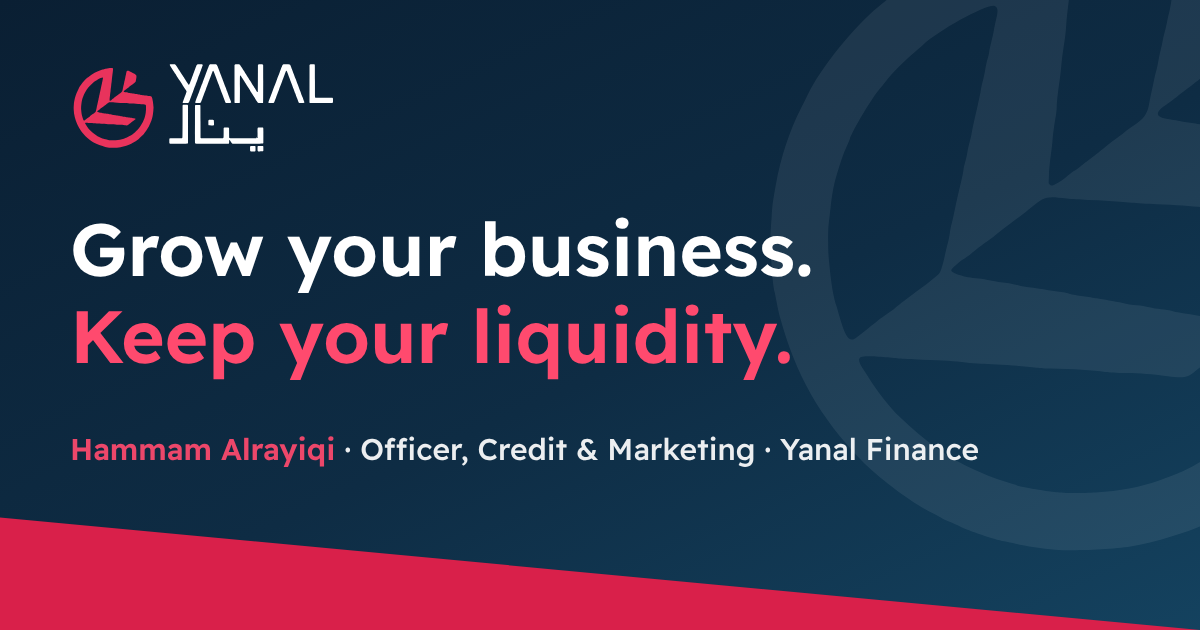
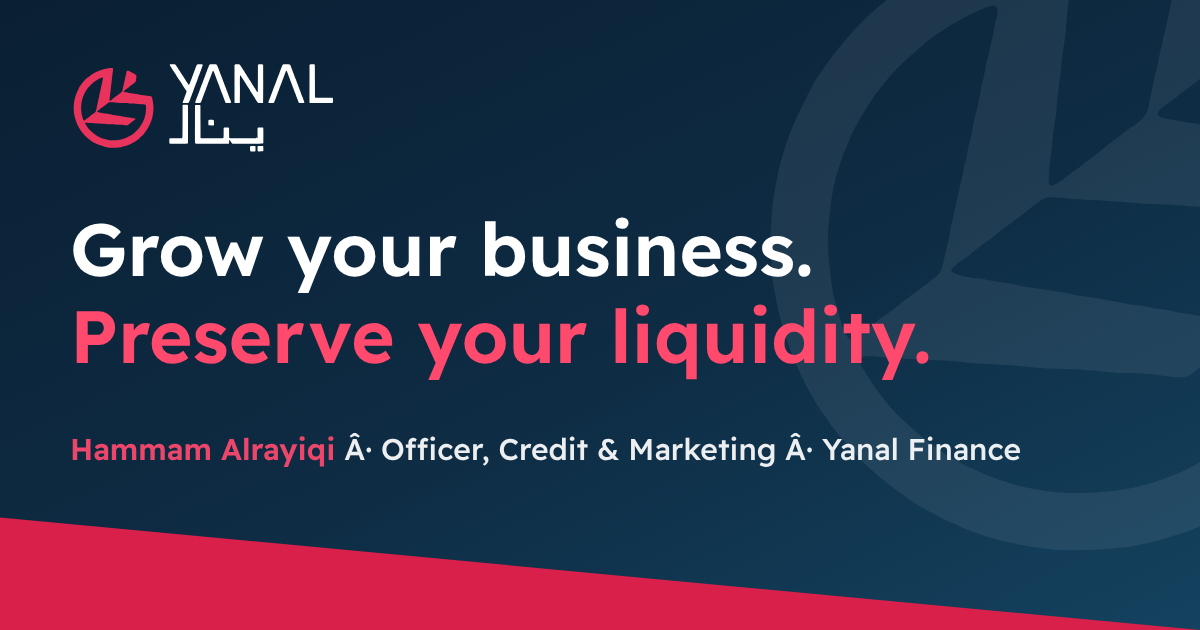
English page: proofread wording (call transfers, Absher, VAT months, legal line)
Claude-Session: https://claude.ai/code/session_011JkM9vXejA8LNS3V8fuq12

Changed region(s): [[0.0617, 0.4825, 0.7708, 0.6032], [0.2775, 0.6937, 0.8633, 0.754]]

diff --git a/en/index.html b/en/index.html
@@ -9,7 +9,7 @@
 <meta name="robots" content="noindex">
 <meta property="og:type" content="profile">
 <meta property="og:title" content="Hammam Alrayiqi | Yanal Finance">
-<meta property="og:description" content="Grow your business. Keep your liquidity. Preliminary financing offer within one business day.">
+<meta property="og:description" content="Grow your business. Preserve your liquidity. Preliminary financing offer within one business day.">
 <meta property="og:image" content="https://hammam-alrayiqi-yanal.github.io/og_en.png">
 <meta property="og:url" content="https://hammam-alrayiqi-yanal.github.io/en/">
 <meta name="twitter:card" content="summary_large_image">
@@ -89,15 +89,15 @@ footer a{color:var(--teal);font-weight:600}
       <div class="av"><img src="../assets/mark_white.svg" alt=""></div>
       <div><small>Your direct contact at Yanal</small><h1>Hammam Alrayiqi</h1><p>Officer, Credit & Marketing · Jeddah Branch</p></div>
     </div>
-    <div class="tag">Grow your business.<br><span>Keep your liquidity.</span></div>
+    <div class="tag">Grow your business.<br><span>Preserve your liquidity.</span></div>
   </header>
   <main>
-    <a class="btn wa" href="https://wa.me/966502359955?text=Hello%20Mr.%20Alrayiqi%2C%20I%20have%20reviewed%20Yanal%27s%20company%20profile%20and%20would%20like%20to%20enquire%20about%20financing."><div class="ic"><svg xmlns="http://www.w3.org/2000/svg" viewBox="0 0 24 24" fill="none" stroke="currentColor" stroke-width="1.8" stroke-linecap="round" stroke-linejoin="round" > <path stroke="none" d="M0 0h24v24H0z" fill="none" /> <path d="M3 21l1.65 -3.8a9 9 0 1 1 3.4 2.9l-5.05 .9" /> <path d="M9 10a.5 .5 0 0 0 1 0v-1a.5 .5 0 0 0 -1 0v1a5 5 0 0 0 5 5h1a.5 .5 0 0 0 0 -1h-1a.5 .5 0 0 0 0 1" /> </svg></div><div><b>Talk to me directly</b><span>WhatsApp · No transfers, no waiting</span></div><svg class="go" xmlns="http://www.w3.org/2000/svg" viewBox="0 0 24 24" fill="none" stroke="currentColor" stroke-width="2" stroke-linecap="round" stroke-linejoin="round" > <path stroke="none" d="M0 0h24v24H0z" fill="none" /> <path d="M9 6l6 6l-6 6" /> </svg></a>
+    <a class="btn wa" href="https://wa.me/966502359955?text=Hello%20Mr%20Alrayiqi%2C%20I%20have%20reviewed%20Yanal%27s%20company%20profile%20and%20would%20like%20to%20enquire%20about%20financing."><div class="ic"><svg xmlns="http://www.w3.org/2000/svg" viewBox="0 0 24 24" fill="none" stroke="currentColor" stroke-width="1.8" stroke-linecap="round" stroke-linejoin="round" > <path stroke="none" d="M0 0h24v24H0z" fill="none" /> <path d="M3 21l1.65 -3.8a9 9 0 1 1 3.4 2.9l-5.05 .9" /> <path d="M9 10a.5 .5 0 0 0 1 0v-1a.5 .5 0 0 0 -1 0v1a5 5 0 0 0 5 5h1a.5 .5 0 0 0 0 -1h-1a.5 .5 0 0 0 0 1" /> </svg></div><div><b>Talk to me directly</b><span>WhatsApp · No call transfers, no waiting</span></div><svg class="go" xmlns="http://www.w3.org/2000/svg" viewBox="0 0 24 24" fill="none" stroke="currentColor" stroke-width="2" stroke-linecap="round" stroke-linejoin="round" > <path stroke="none" d="M0 0h24v24H0z" fill="none" /> <path d="M9 6l6 6l-6 6" /> </svg></a>
 
     <div class="offer">
-      <div class="h"><small>The fastest route</small><b>Your preliminary financing offer within one business day</b><p>Send your complete documents in PDF format, and receive your offer within one business day of a complete submission.</p></div>
-      <div class="bt"><a class="m" href="mailto:hh.alrayiqi@yanal.com?subject=Preliminary%20offer%20documents%20%E2%80%93%20Yanal&body=Dear%20Mr.%20Alrayiqi%2C%0A%0APlease%20find%20attached%20the%20documents%20for%20the%20preliminary%20offer%3A%0A1.%20Commercial%20Registration%0A2.%20Proof%20of%20financial%20performance%0A3.%20Articles%20of%20Association%20%28companies%29%0A4.%20Authorised%20signatory%27s%20ID%20and%20Absher-registered%20mobile%20number%0A%0ACompany%20name%3A%0AFinancing%20required%20and%20approximate%20amount%3A%0AContact%20number%3A%0A"><svg xmlns="http://www.w3.org/2000/svg" viewBox="0 0 24 24" fill="none" stroke="currentColor" stroke-width="2" stroke-linecap="round" stroke-linejoin="round" > <path stroke="none" d="M0 0h24v24H0z" fill="none" /> <path d="M3 7a2 2 0 0 1 2 -2h14a2 2 0 0 1 2 2v10a2 2 0 0 1 -2 2h-14a2 2 0 0 1 -2 -2v-10" /> <path d="M3 7l9 6l9 -6" /> </svg>By email</a><a class="w" href="https://wa.me/966502359955?text=Hello%20Mr.%20Alrayiqi%2C%20I%20have%20reviewed%20Yanal%27s%20company%20profile%20and%20would%20like%20to%20enquire%20about%20financing."><svg xmlns="http://www.w3.org/2000/svg" viewBox="0 0 24 24" fill="none" stroke="currentColor" stroke-width="2" stroke-linecap="round" stroke-linejoin="round" > <path stroke="none" d="M0 0h24v24H0z" fill="none" /> <path d="M3 21l1.65 -3.8a9 9 0 1 1 3.4 2.9l-5.05 .9" /> <path d="M9 10a.5 .5 0 0 0 1 0v-1a.5 .5 0 0 0 -1 0v1a5 5 0 0 0 5 5h1a.5 .5 0 0 0 0 -1h-1a.5 .5 0 0 0 0 1" /> </svg>Via WhatsApp</a></div>
-      <details><summary>We start with just four documents <svg xmlns="http://www.w3.org/2000/svg" viewBox="0 0 24 24" fill="none" stroke="currentColor" stroke-width="2" stroke-linecap="round" stroke-linejoin="round" > <path stroke="none" d="M0 0h24v24H0z" fill="none" /> <path d="M6 9l6 6l6 -6" /> </svg></summary><ul><li><i>1</i><div><b>Commercial Registration (CR)</b><p>A recent, valid extract.</p></div></li><li><i>2</i><div><b>Proof of financial performance</b><p><b>Companies:</b> Audited financial statements for the last 3 years, plus unaudited management accounts up to the last completed quarter.<br><b>Sole proprietorships:</b> All VAT returns for the last 24 months without gaps, with proof of payment for each return.</p></div></li><li><i>3</i><div><b>Articles of Association</b><p>Companies: the latest amended and certified version.</p></div></li><li><i>4</i><div><b>Authorised signatory's ID</b><p>A valid ID, plus the mobile number registered in Absher under the signatory's name.</p></div></li></ul><div class="fmt">Once you accept the preliminary offer, we run a credit enquiry on your business through SIMAH and Bayan and request the detailed documents needed to build your credit file.</div></details>
+      <div class="h"><small>The fastest route</small><b>Your preliminary financing offer within one business day</b><p>Send all documents in PDF format and receive your offer within one business day of a complete submission.</p></div>
+      <div class="bt"><a class="m" href="mailto:hh.alrayiqi@yanal.com?subject=Preliminary%20offer%20documents%20%E2%80%93%20Yanal&body=Dear%20Mr%20Alrayiqi%2C%0A%0APlease%20find%20attached%20the%20documents%20for%20the%20preliminary%20offer%3A%0A1.%20Commercial%20Registration%0A2.%20Proof%20of%20financial%20performance%0A3.%20Articles%20of%20Association%20%28companies%29%0A4.%20Authorised%20signatory%27s%20ID%20and%20Absher-registered%20mobile%20number%0A%0ACompany%20name%3A%0AFinancing%20required%20and%20approximate%20amount%3A%0AContact%20number%3A%0A"><svg xmlns="http://www.w3.org/2000/svg" viewBox="0 0 24 24" fill="none" stroke="currentColor" stroke-width="2" stroke-linecap="round" stroke-linejoin="round" > <path stroke="none" d="M0 0h24v24H0z" fill="none" /> <path d="M3 7a2 2 0 0 1 2 -2h14a2 2 0 0 1 2 2v10a2 2 0 0 1 -2 2h-14a2 2 0 0 1 -2 -2v-10" /> <path d="M3 7l9 6l9 -6" /> </svg>Via email</a><a class="w" href="https://wa.me/966502359955?text=Hello%20Mr%20Alrayiqi%2C%20I%20have%20reviewed%20Yanal%27s%20company%20profile%20and%20would%20like%20to%20enquire%20about%20financing."><svg xmlns="http://www.w3.org/2000/svg" viewBox="0 0 24 24" fill="none" stroke="currentColor" stroke-width="2" stroke-linecap="round" stroke-linejoin="round" > <path stroke="none" d="M0 0h24v24H0z" fill="none" /> <path d="M3 21l1.65 -3.8a9 9 0 1 1 3.4 2.9l-5.05 .9" /> <path d="M9 10a.5 .5 0 0 0 1 0v-1a.5 .5 0 0 0 -1 0v1a5 5 0 0 0 5 5h1a.5 .5 0 0 0 0 -1h-1a.5 .5 0 0 0 0 1" /> </svg>Via WhatsApp</a></div>
+      <details><summary>We start with just four documents <svg xmlns="http://www.w3.org/2000/svg" viewBox="0 0 24 24" fill="none" stroke="currentColor" stroke-width="2" stroke-linecap="round" stroke-linejoin="round" > <path stroke="none" d="M0 0h24v24H0z" fill="none" /> <path d="M6 9l6 6l6 -6" /> </svg></summary><ul><li><i>1</i><div><b>Commercial Registration (CR)</b><p>A recent, valid extract.</p></div></li><li><i>2</i><div><b>Proof of financial performance</b><p><b>Companies:</b> Audited financial statements for the last 3 years, plus unaudited management accounts up to the last completed quarter.<br><b>Sole proprietorships:</b> All VAT returns for the last 24 consecutive months, with proof of payment for each return.</p></div></li><li><i>3</i><div><b>Articles of Association</b><p>Companies: the latest amended and certified version.</p></div></li><li><i>4</i><div><b>Authorised signatory's ID</b><p>A valid ID, plus the mobile number registered on Absher under the signatory's name.</p></div></li></ul><div class="fmt">Once you accept the preliminary offer, we run a credit enquiry on your business through SIMAH and Bayan and request the detailed documents needed to build your credit file.</div></details>
     </div>
 
     <div class="sec">Contact details</div>
@@ -111,7 +111,7 @@ footer a{color:var(--teal);font-weight:600}
     <a class="btn" href="https://yanal.sa"><div class="ic"><svg xmlns="http://www.w3.org/2000/svg" viewBox="0 0 24 24" fill="none" stroke="currentColor" stroke-width="1.8" stroke-linecap="round" stroke-linejoin="round" > <path stroke="none" d="M0 0h24v24H0z" fill="none" /> <path d="M3 12a9 9 0 1 0 18 0a9 9 0 0 0 -18 0" /> <path d="M3.6 9h16.8" /> <path d="M3.6 15h16.8" /> <path d="M11.5 3a17 17 0 0 0 0 18" /> <path d="M12.5 3a17 17 0 0 1 0 18" /> </svg></div><div><b>Yanal website</b><span class="ltr">yanal.sa</span></div><svg class="go" xmlns="http://www.w3.org/2000/svg" viewBox="0 0 24 24" fill="none" stroke="currentColor" stroke-width="2" stroke-linecap="round" stroke-linejoin="round" > <path stroke="none" d="M0 0h24v24H0z" fill="none" /> <path d="M9 6l6 6l-6 6" /> </svg></a>
     <a class="btn" href="https://maps.google.com/?q=Salamah+Tower+Madinah+Road+Jeddah"><div class="ic"><svg xmlns="http://www.w3.org/2000/svg" viewBox="0 0 24 24" fill="none" stroke="currentColor" stroke-width="1.8" stroke-linecap="round" stroke-linejoin="round" > <path stroke="none" d="M0 0h24v24H0z" fill="none" /> <path d="M9 11a3 3 0 1 0 6 0a3 3 0 0 0 -6 0" /> <path d="M17.657 16.657l-4.243 4.243a2 2 0 0 1 -2.827 0l-4.244 -4.243a8 8 0 1 1 11.314 0" /> </svg></div><div><b>Jeddah Branch</b><span>Salamah Tower, Madinah Road</span></div><svg class="go" xmlns="http://www.w3.org/2000/svg" viewBox="0 0 24 24" fill="none" stroke="currentColor" stroke-width="2" stroke-linecap="round" stroke-linejoin="round" > <path stroke="none" d="M0 0h24v24H0z" fill="none" /> <path d="M9 6l6 6l-6 6" /> </svg></a>
   </main>
-  <footer>Yanal Finance Company (formerly Saudi ORIX Leasing Company) · Saudi closed joint stock company · C.R. 1010163957 · Licensed by the Saudi Central Bank under Licence No. <span class='nw'>7/ASH/201403</span> and subject to its supervision and oversight. All financing is subject to credit approval, eligibility and terms and conditions.</footer>
+  <footer>Yanal Finance Company (formerly Saudi ORIX Leasing Company) · Saudi closed joint stock company · C.R. 1010163957 · Licensed by the Saudi Central Bank under Licence No. <span class='nw'>7/ASH/201403</span> and subject to its supervision and oversight. All financing is subject to credit approval, eligibility criteria and applicable terms and conditions.</footer>
 </div>
 </body>
 </html>
